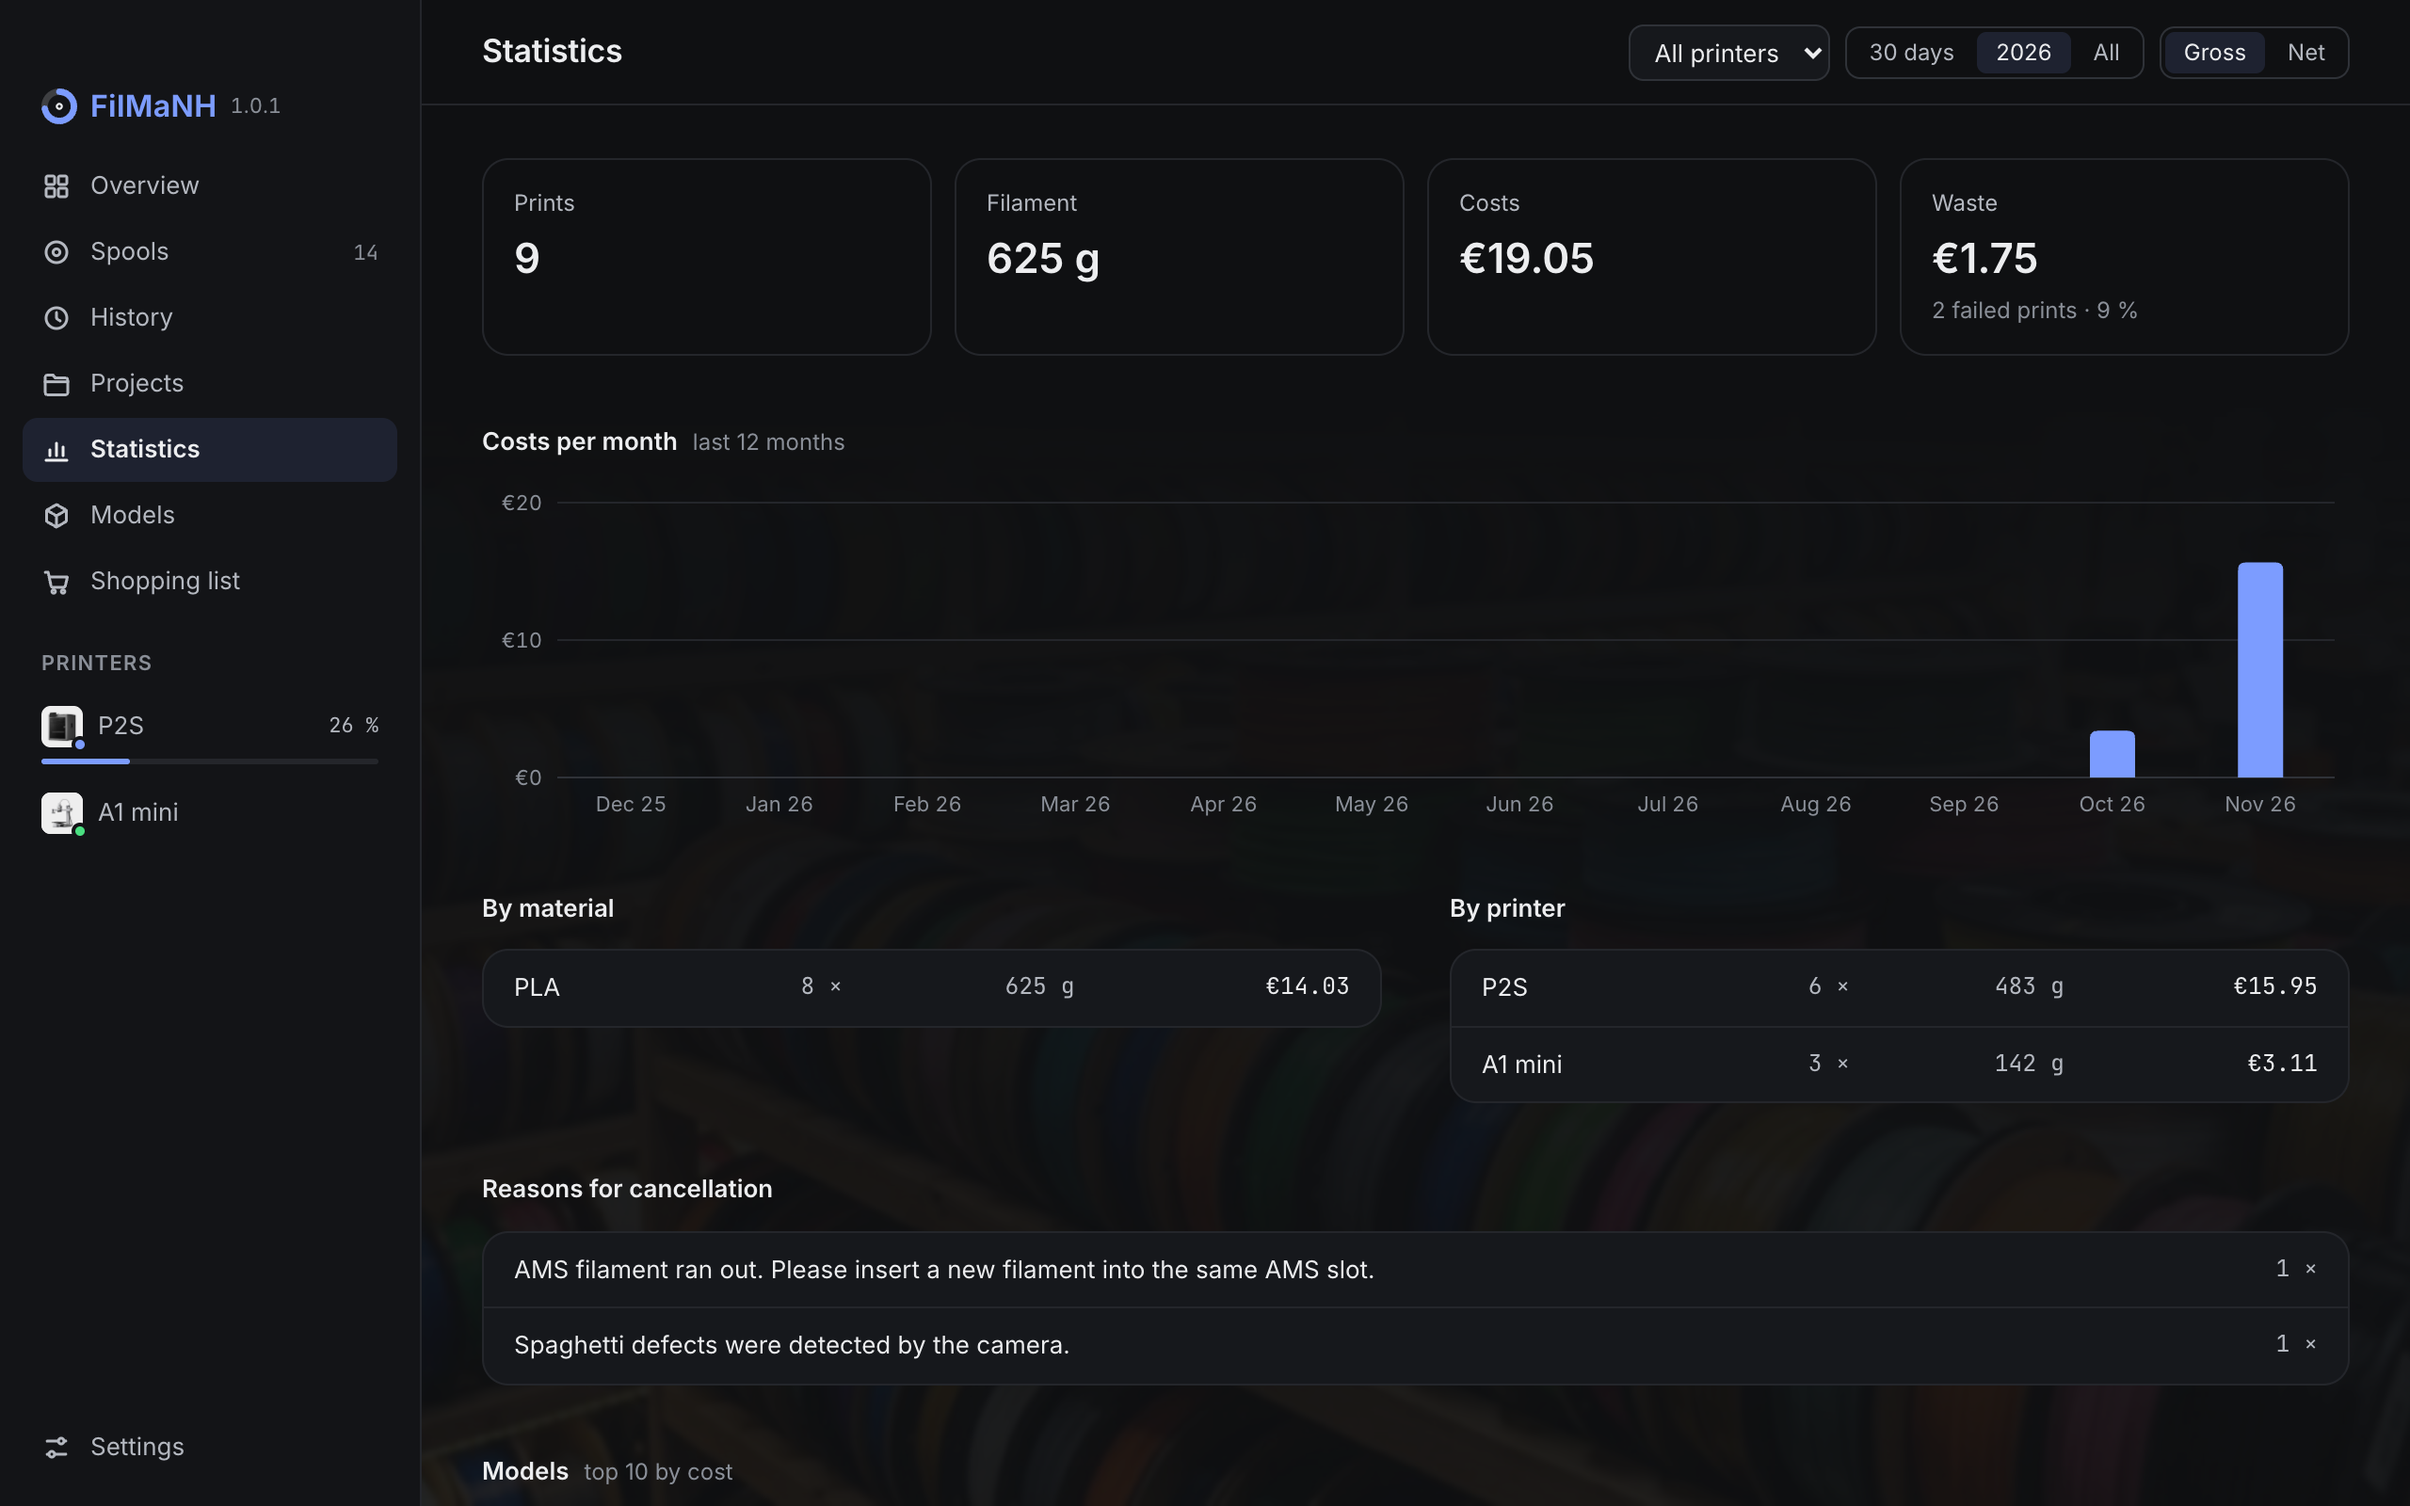
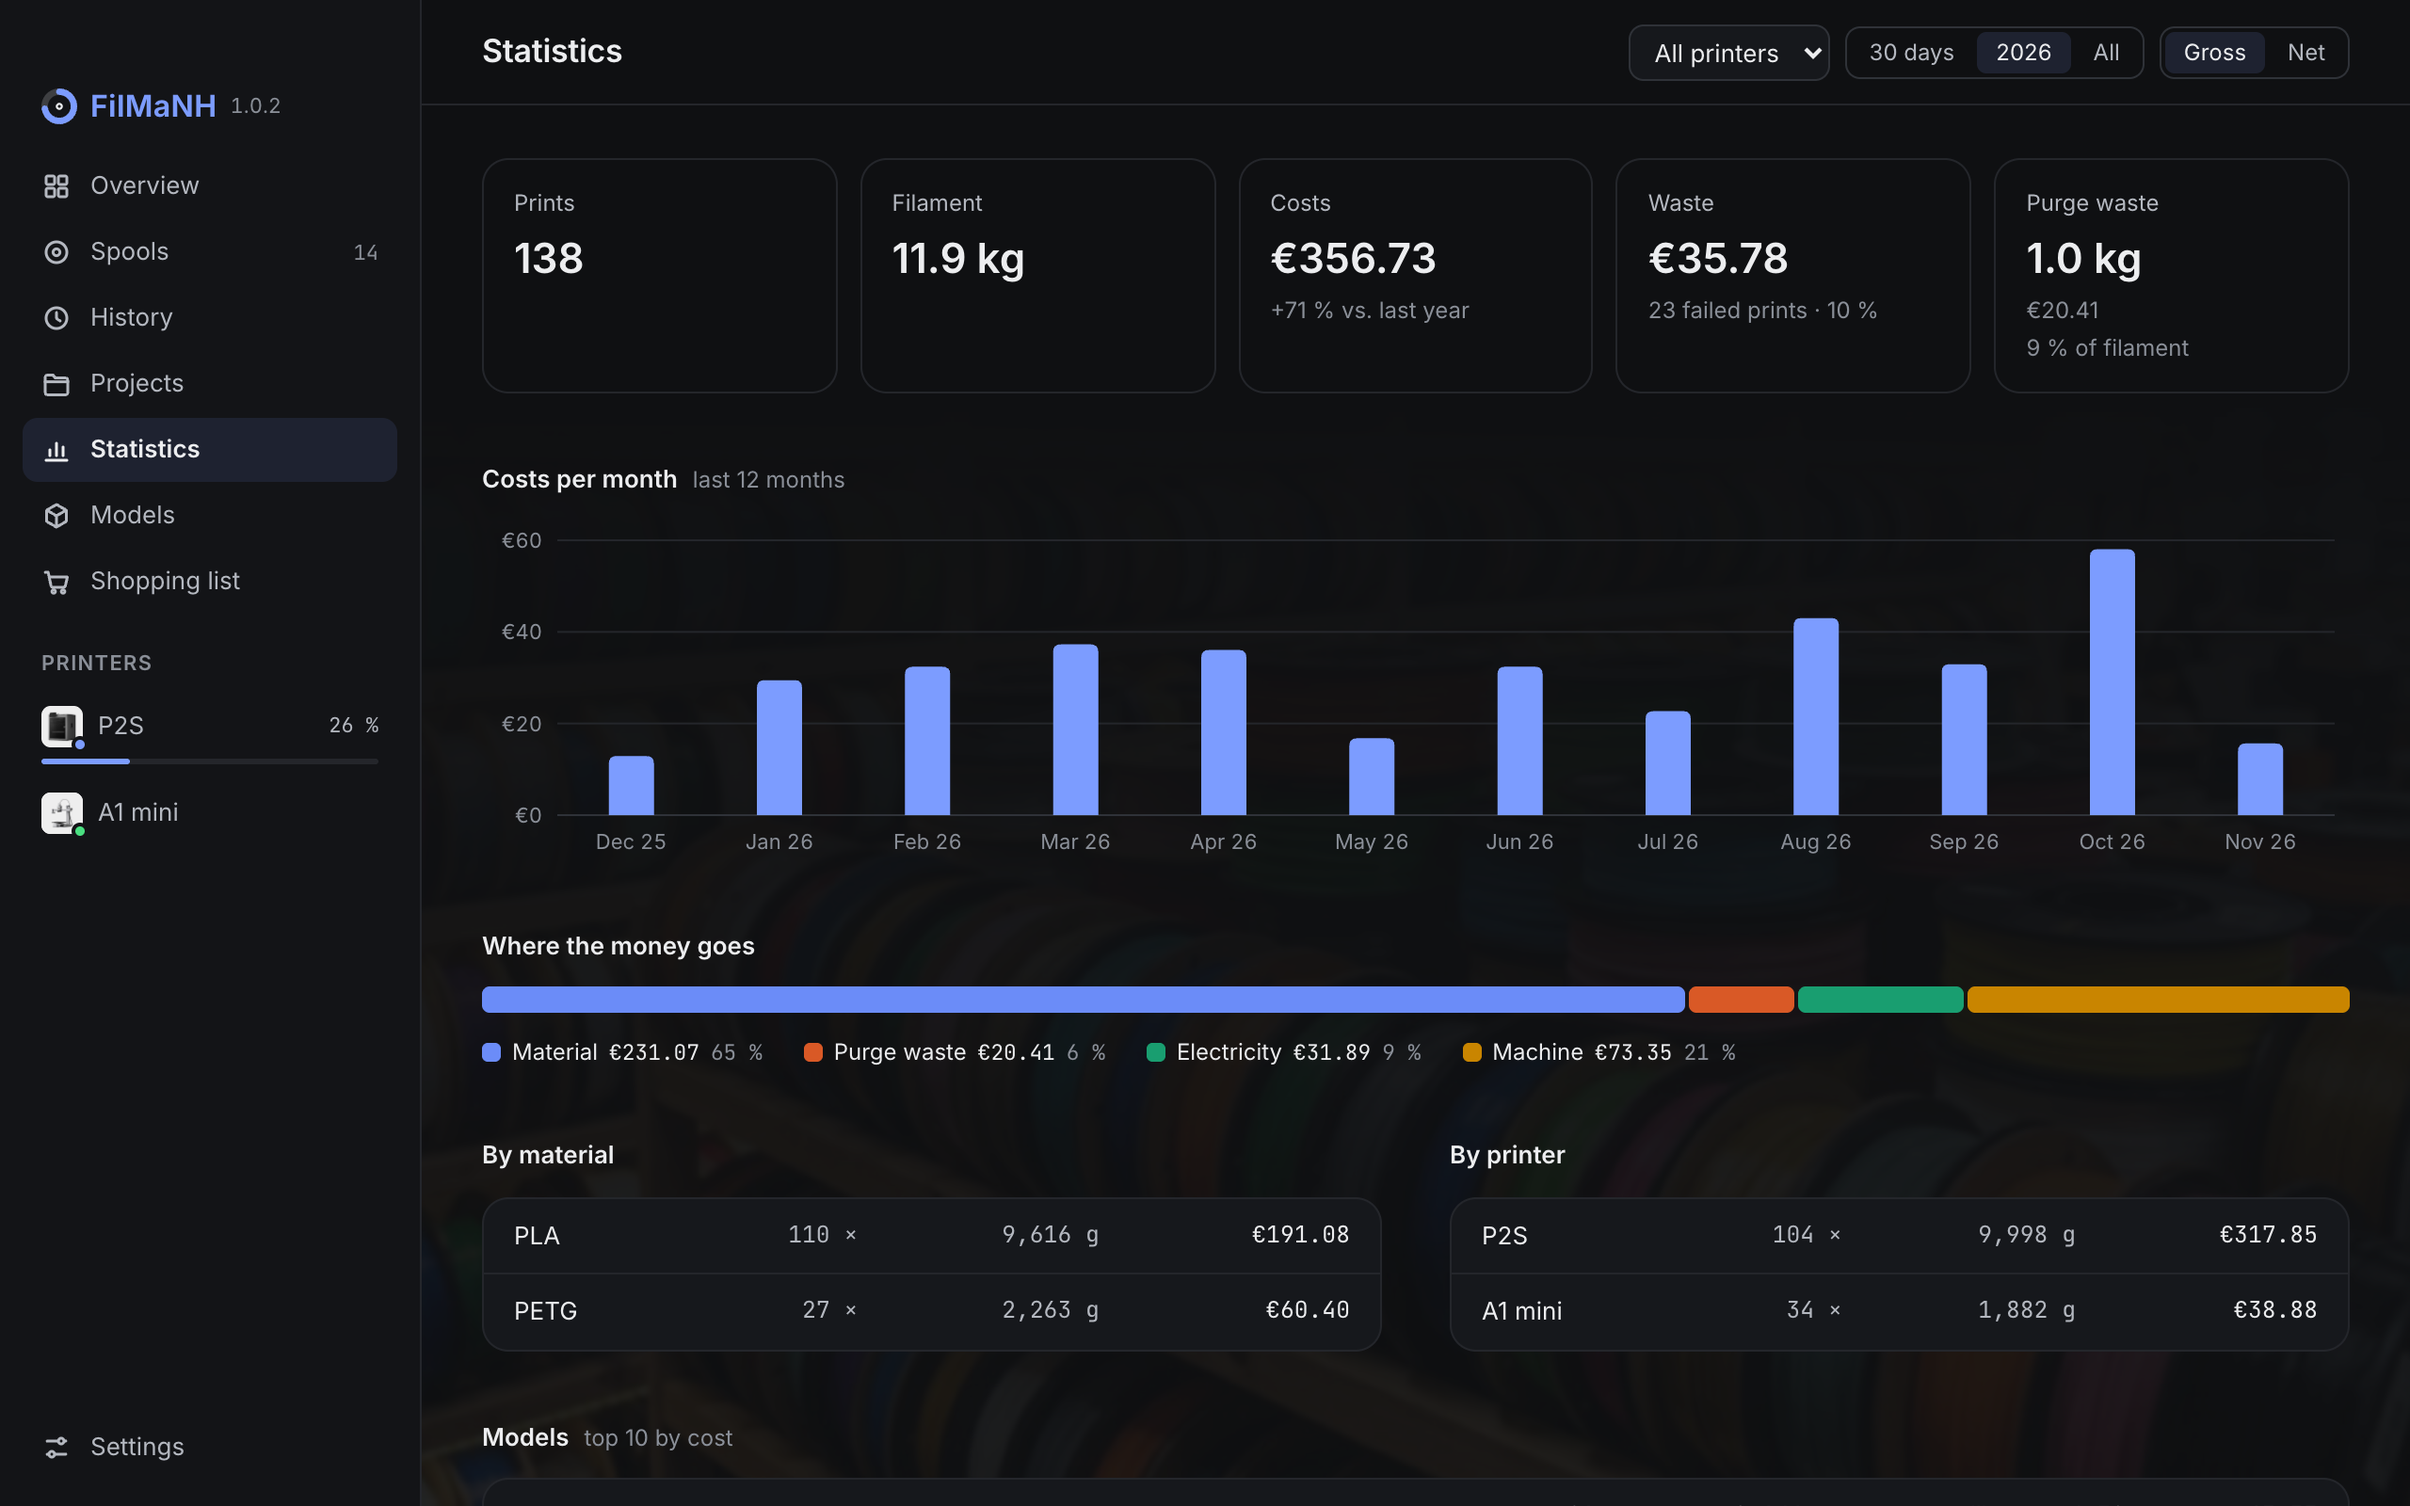
Handbuch für Version 1.0.2

diff --git a/handbuch/README.md b/handbuch/README.md
@@ -94,7 +94,7 @@ Die Einrichtung lässt sich mit **Später einrichten** überspringen und unter E
 - **Zuletzt gedruckt** mit Menge und Kosten.
 - **Zu erledigen** rechts: alles, was Aufmerksamkeit braucht – Druck mit offenem Ende, Slots, die nicht zur Meldung des
   Druckers passen ([Abgleich mit dem Drucker](#abgleich-mit-dem-drucker)), fällige [Wartung](#wartung), Feuchte,
-  nicht gebuchte Drucke, fast leere Spulen –, jeweils mit der passenden Aktion.
+  nicht gebuchte Drucke, fast leere Spulen, Spulen im Drucker ohne Preis –, jeweils mit der passenden Aktion.
 
 ## 5. Spulen
 
@@ -154,6 +154,10 @@ Die **Bewertung** (1–5 Sterne) gilt für das Filament, also für alle Spulen d
 löscht sie. Unter **Bearbeiten** lassen sich EANs von Hand eintragen, mehrere durch Komma getrennt (z.B. mit Spule
 und Refill). Dort lassen sich auch **Hersteller**, **Bezeichnung**, **Material** und **Farbe** ändern (mit derselben Farbauswahl
 wie beim Anlegen); das gilt für alle Spulen dieses Filaments.
+
+Bekommt eine Spule erst nachträglich einen **Preis**, rechnet FilMaNH die Kosten ihrer schon gebuchten Drucke damit
+nach. Ändert sich ein vorhandener Preis, bleiben die bisherigen Kosten – außer mit **Kosten bisheriger Drucke mit
+dem neuen Preis rechnen**.
 
 ### Wiegen
 
@@ -300,7 +304,8 @@ Laufende Drucke lassen sich nicht löschen.
   dem Rechner, sonst kommt er beim Abspielen vom Drucker. **Speichern …** sichert ihn; auf dem Mac wird ein AVI dabei
   zu einer `.mov`, die QuickTime abspielt. War der Zeitraffer beim Drucken aus, steht das hier.
 - **Filament** je Spule mit Menge und Kosten; **Kosten** aufgeschlüsselt nach Material, Strom und Maschine, netto
-  und brutto.
+  und brutto. Hat eine Spule keinen Preis, steht **Preis fehlt** bzw. „+ ?“ hinter dem bekannten Betrag (auch im
+  Verlauf), darunter die Spule mit Link.
 - **In Bambu Studio öffnen** öffnet die aufbewahrte Druckdatei. Stammt das Modell von MakerWorld, führt ein Link
   dorthin.
 - **Projekt:** den Druck einem [Projekt](#9-projekte) zuordnen oder mit **Neues Projekt …** eines anlegen.
@@ -355,8 +360,29 @@ Projektdatei (`.3mf`) anhängen; FilMaNH schlägt dafür die zuletzt in Bambu St
 
 ![Auswertung](bilder/19-auswertung.png)
 
-Drucke, Filament, Kosten und Ausschuss (nach der ersten Schicht abgebrochene und als Ausschuss markierte Drucke), Kosten je Monat, je
-Material und je Drucker, Abbruchgründe und die teuersten Modelle. Filter nach Drucker und Zeitraum, Brutto oder Netto.
+Filter nach Drucker und Zeitraum, Brutto oder Netto. Ausschuss sind nach der ersten Schicht abgebrochene und als
+Ausschuss markierte Drucke.
+
+- **Kennzahlen:** Drucke, Filament, Kosten mit der Änderung zum Vorzeitraum (die 30 Tage davor, dieselbe Zeit im
+  Vorjahr bzw. der Vormonat), Ausschuss und **Spülabfall**: beim Farbwechsel gespültes Filament, seine Kosten und sein
+  Anteil am Filament.
+- **Kosten je Monat:** die letzten 12 Monate. Ein Klick auf einen Monat zeigt seine Tage, und die ganze Seite gilt
+  dann für diesen Monat; **Zurück** führt zum vorigen Zeitraum.
+- **Wofür das Geld geht:** Material, Spülabfall, Strom und Maschine (Anschaffung der Drucker) als Anteile der Kosten.
+- **Je Material**, **Je Drucker**, die teuersten **Modelle** und **Spülabfall je Modell**.
+- **Farben:** die meistgedruckten Farben, je mehr Gramm, desto breiter; beim Darüberfahren Filament und Menge.
+- **Wann gedruckt wird:** Druckstunden nach Wochentag und Uhrzeit (je kräftiger, desto mehr) und die **Auslastung**
+  je Drucker: Druckstunden im Verhältnis zu den Stunden des Zeitraums.
+- **Abbruchgründe:** die häufigsten Meldungen abgebrochener Drucke.
+- **Feuchte und Fehldrucke:** Anteil der Fehldrucke nach der Feuchte im AMS beim Druckstart und danach, ob alle
+  Spulen des Drucks in den 7 Tagen davor getrocknet wurden. Erst ab 20 Drucken mit Messwert, jede Zeile ab 5 Drucken.
+  Drucke von der externen Spule haben keinen Messwert.
+- **Schätzung und Wirklichkeit:** wie viel länger oder kürzer normal beendete Drucke dauerten als vom Slicer
+  vorhergesagt (Median, ab 3 Drucken je Drucker), und um wie viel gewogene Spulen vom Gewicht laut Slicer abweichen
+  (je Filament, aus allen Wiegungen).
+- **Je Monat** bzw. **Je Tag:** die Zahlen hinter dem Diagramm.
+- **Lager:** der aktuelle Bestand, unabhängig vom Zeitraum: Wert der Restmengen, Spulen ohne Verbrauch seit über
+  6 Monaten und Spulen, die seit über 60 Tagen offen und seitdem nicht getrocknet sind.
 
 ## 12. Einkauf
 
@@ -398,7 +424,7 @@ und Mehrwertsteuer nach dem Land des Systems vorbelegt.
 
 ![Kosten](bilder/23-einst-kosten.png)
 
-**Erfassung:** Grenze für „fast leer“, Korrektur aus Wiegungen lernen, Bambu-Spulen mit RFID automatisch anlegen,
+**Erfassung:** Grenze für „fast leer“, Korrektur aus Wiegungen lernen, Feuchte in der Auswertung, Bambu-Spulen mit RFID automatisch anlegen,
 Druckdateien aufbewahren (Datei und Bild, oder nur Bild), Zeitraffer herunterladen und wie viel Platz Druckdateien
 und Zeitraffer höchstens belegen.
 
@@ -409,6 +435,8 @@ und Zeitraffer höchstens belegen.
 - **Druckdateien aus Bambu Studio übernehmen:** Druckst du aus Bambu Studio auf diesem Rechner, legt Bambu Studio
   die Druckdatei kurz ab, und FilMaNH übernimmt sie. So wird auch gebucht, wenn der Drucker die Datei nicht
   herausgibt. Einzurichten ist nichts.
+- **Feuchte in der Auswertung:** zeigt in der Auswertung „Feuchte und Fehldrucke“. Die Feuchte beim Druckstart
+  hält FilMaNH immer fest, auch wenn der Schalter aus ist.
 
 **Handy:** Koppeln mit der FilMaNH-App für iPhone oder Android (die iPhone-App erscheint demnächst im App Store).
 **QR-Code zeigen** öffnet das Koppeln: In der App **Mit Rechner koppeln** antippen und den Code scannen. Es lassen sich
@@ -463,6 +491,8 @@ Mit **Mit dem Rechner starten** (Einstellungen › Allgemein) läuft FilMaNH nac
 
 - **⌘K** (Mac) bzw. **Strg+K** (Windows): Suche nach Spulen, Drucken, Modellen und Befehlen.
 - **F1**: [Hilfe](#13-einstellungen).
+- **⌘[** oder **⌘←** (Mac) bzw. **Alt+←** (Windows), die Zurück-Taste der Maus oder der Pfeil vor dem Titel: einen
+  Schritt zurück auf dem Weg, den man gekommen ist; **⌘]** bzw. **Alt+→** wieder vor.
 - Eine `.gcode.3mf` auf das Fenster ziehen: Druckdatei prüfen.
 - Ein Barcodescanner, der den QR-Code eines FilMaNH-Etiketts liest, öffnet direkt die Spule.
 - Scannt er die EAN einer Spule oder ihres Kartons, öffnet sich **Neue Spule** – bei einer bekannten EAN mit dem

diff --git a/handbook/README.md b/handbook/README.md
@@ -93,7 +93,7 @@ Finally, FilMaNH asks for the **electricity price** per kWh (for the electricity
 - **Recently printed** with amount and cost.
 - **To do** on the right: everything that needs your attention – a print whose end is unknown, slots that don’t match
   what the printer reports ([Matching with the printer](#matching-with-the-printer)), [maintenance](#maintenance) that
-  is due, moisture, prints not deducted, almost empty spools – each with the matching action.
+  is due, moisture, prints not deducted, almost empty spools, spools in a printer without a price – each with the matching action.
 
 ## 5. Spools
 
@@ -153,6 +153,10 @@ The **Rating** (1–5 stars) applies to the filament, i.e. to all spools of that
 clears it. Under **Edit** you can enter EANs by hand, several separated by commas (e.g. with spool and refill). You
 can also change the **Brand**, **Product**, **Material** and **Color** there (with the same colour choice as when
 creating); this applies to all spools of this filament.
+
+If a spool only gets a **price** later, FilMaNH recalculates the costs of the prints already deducted from it.
+If an existing price changes, past costs stay as they were – unless you tick **Recalculate costs of past prints
+with the new price**.
 
 ### Weigh
 
@@ -299,7 +303,8 @@ deleted.
   otherwise it comes from the printer when you play it. **Save …** keeps a copy; on a Mac an AVI becomes a `.mov`
   that QuickTime plays. If the timelapse was off during the print, this is shown here.
 - **Filament** per spool with amount and cost; **Costs** broken down into material, electricity and machine, net
-  and gross.
+  and gross. If a spool has no price, it says **Price missing** or “+ ?” after the known amount (also in the
+  history), with a link to the spool below.
 - **Open in Bambu Studio** opens the kept print file. If the model comes from MakerWorld, a link leads there.
 - **Project:** assign the print to a [project](#9-projects) or create one with **New project …**. **Selling price**
   (expand) calculates the price for this print.
@@ -353,9 +358,29 @@ project file (`.3mf`); FilMaNH suggests the files recently opened in Bambu Studi
 
 ![Statistics](images/19-auswertung.png)
 
-Prints, filament, costs and waste (prints cancelled after the first layer and prints marked as waste), costs per month, per material and
-per printer,
-reasons for cancellation and the most expensive models. Filter by printer and period, gross or net.
+Filter by printer and period, gross or net. Waste means prints cancelled after the first layer and prints marked as
+waste.
+
+- **Key figures:** prints, filament, costs with the change from the previous period (the 30 days before, the same
+  time last year or the previous month), waste and **purge waste**: filament flushed during color changes, its cost and
+  its share of the filament.
+- **Costs per month:** the last 12 months. Click a month to see its days; the whole page then shows that month.
+  **Back** returns to the previous period.
+- **Where the money goes:** material, purge waste, electricity and machine (printer purchase) as shares of the costs.
+- **By material**, **By printer**, the most expensive **Models** and **Purge waste by model**.
+- **Colors:** the most printed colors, wider the more grams; hover for filament and amount.
+- **When you print:** print hours by weekday and time of day (the stronger, the more) and the **utilization** of
+  each printer: print hours relative to the hours in the period.
+- **Reasons for cancellation:** the most common messages of cancelled prints.
+- **Humidity and failed prints:** the share of failed prints by AMS humidity at print start and by whether all spools
+  of the print were dried in the 7 days before. Only from 20 prints with a reading, each row from 5 prints. Prints
+  from the external spool have no reading.
+- **Estimate vs. reality:** how much longer or shorter normally finished prints took than the slicer predicted
+  (median, from 3 prints per printer), and how much weighed spools differ from the slicer weight (per filament, from
+  all weighings).
+- **By month** or **By day:** the figures behind the chart.
+- **Stock:** the current stock, regardless of the period: value of the remaining filament, spools without use for
+  more than 6 months, and spools that have been open for more than 60 days and not dried since.
 
 ## 12. Shopping list
 
@@ -396,7 +421,7 @@ the system’s country.
 
 ![Costs](images/23-einst-kosten.png)
 
-**Tracking:** threshold for “almost empty”, learn correction from weighings, create Bambu spools with RFID
+**Tracking:** threshold for “almost empty”, learn correction from weighings, humidity in statistics, create Bambu spools with RFID
 automatically, keep print files (file and image, or image only), download timelapses and the maximum space print
 files and timelapses may use.
 
@@ -407,6 +432,8 @@ files and timelapses may use.
 - **Take print files from Bambu Studio:** when you print from Bambu Studio on this computer, Bambu Studio briefly
   stores the print file and FilMaNH takes it. This way usage is booked even if the printer does not provide the
   file. Nothing to set up.
+- **Humidity in statistics:** shows “Humidity and failed prints” in Statistics. FilMaNH always records the
+  humidity at print start, even when the switch is off.
 
 **Phone:** pairing with the FilMaNH app for iPhone or Android (the iPhone app is coming soon to the App Store).
 **Show QR code** starts pairing: tap **Pair with computer** in the app and scan the code. You can pair as many phones
@@ -460,6 +487,8 @@ With **Launch at login** (Settings › General) FilMaNH starts in the background
 
 - **⌘K** (Mac) or **Ctrl+K** (Windows): search spools, prints, models and commands.
 - **F1**: [help](#13-settings).
+- **⌘[** or **⌘←** (Mac) or **Alt+←** (Windows), the back button of the mouse or the arrow before the page title: one
+  step back along the way you came; **⌘]** or **Alt+→** goes forward again.
 - Drop a `.gcode.3mf` onto the window: check print file.
 - A barcode scanner reading the QR code of a FilMaNH label opens that spool directly.
 - Scanning the EAN of a spool or its box opens **New spool** – for a known EAN with the filament already selected.
